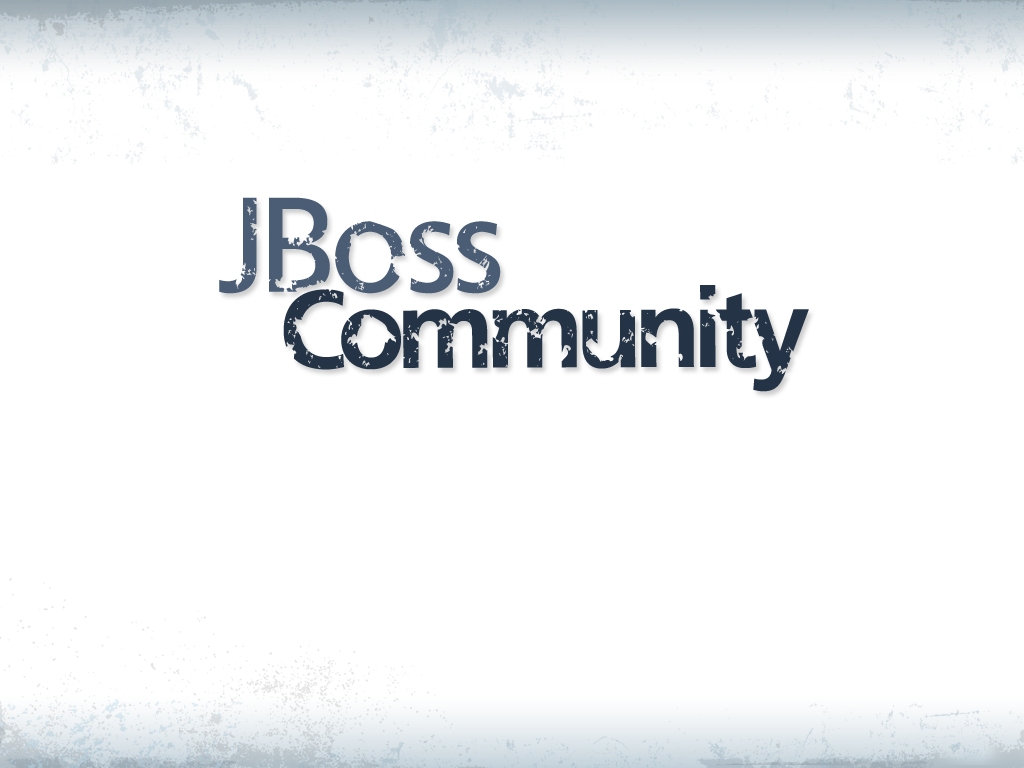
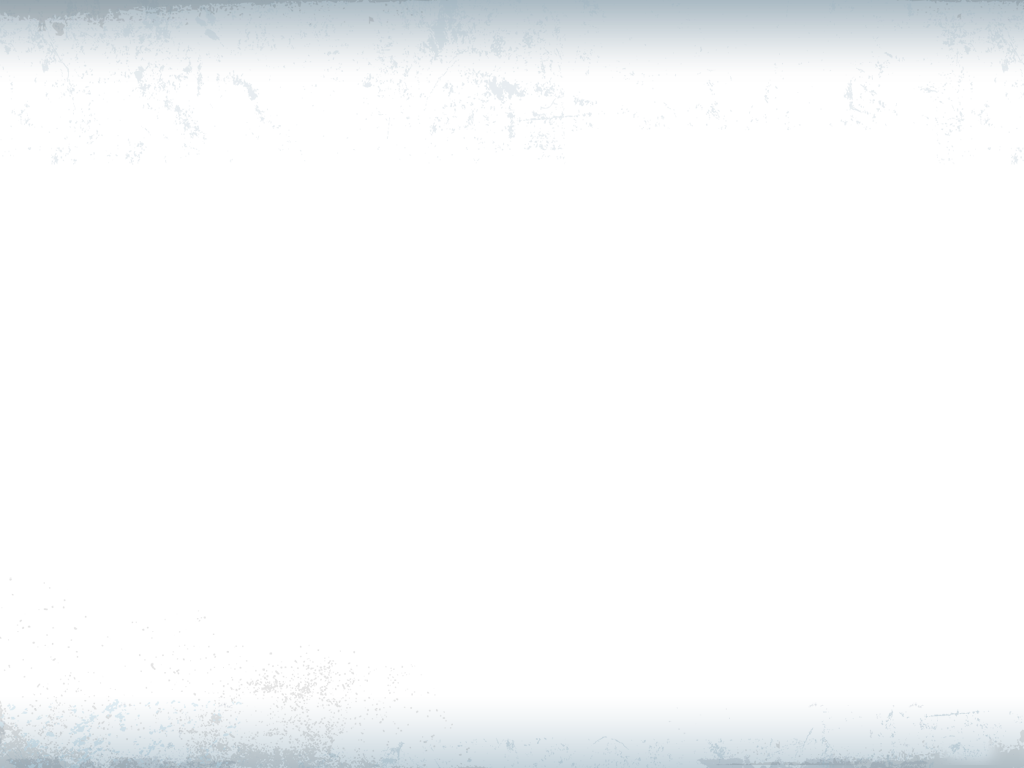
Tweaked the port of the JBoss community style

Changed region(s): [[0.2188, 0.25, 0.8125, 0.5312]]

diff --git a/2012-JAX/stylesheets/main.css b/2012-JAX/stylesheets/main.css
@@ -24,8 +24,8 @@
 html, body {
 	padding: 0;
 	margin: 0;
-	width: 1024px;
-	height: 768px;
+	width: 100%;
+	height: 100%;
 	min-height: 600px;
 }
 
@@ -34,7 +34,7 @@ body {
 	padding: 0;
 	margin: 0;
 	overflow: hidden;
-	
+
 	font-family: 'Lato', Times, 'Times New Roman', serif;
 	font-size: 36px;
 	font-weight: 200;
@@ -42,25 +42,30 @@ body {
 	color: #4a5d75;
 
 	background: #1c1e20;
-	background: url("../assets/images/jboss_bkgd.png");
-    background-repeat: no-repeat;
[1 lines of base64/hex data omitted]
+	background: -moz-radial-gradient(center, ellipse cover,  rgba(85,90,95,1) 0%, rgba(28,30,32,1) 100%);
+	background: -webkit-gradient(radial, center center, 0px, center center, 100%, color-stop(0%,rgba(85,90,95,1)), color-stop(100%,rgba(28,30,32,1)));
+	background: -webkit-radial-gradient(center, ellipse cover,  rgba(85,90,95,1) 0%,rgba(28,30,32,1) 100%);
+	background: -o-radial-gradient(center, ellipse cover,  rgba(85,90,95,1) 0%,rgba(28,30,32,1) 100%);
+	background: -ms-radial-gradient(center, ellipse cover,  rgba(85,90,95,1) 0%,rgba(28,30,32,1) 100%);
+	background: radial-gradient(center, ellipse cover,  rgba(85,90,95,1) 0%,rgba(28,30,32,1) 100%);
 }
 
 /*********************************************
  * HEADERS
  *********************************************/
-.reveal h1, 
-.reveal h2, 
-.reveal h3, 
+.reveal h1,
+.reveal h2,
+.reveal h3,
 .reveal h4 {
 	margin: 0 0 20px 0;
-	
+
 	color: #4a5d75;
-	
+
 	font-family: 'League Gothic', sans-serif;
 	line-height: 0.9em;
 	letter-spacing: 0.02em;
-	
+
 	text-transform: uppercase;
 	text-shadow: 0px 0px 6px rgba(0,0,0,0.2);
 }
@@ -222,7 +227,7 @@ body {
 	}
 
 .reveal a:not(.image) {
-	color: hsl(185, 85%, 50%);
+	color: #778289;
 	text-decoration: none;
 
 	-webkit-transition: all .2s ease;
@@ -233,8 +238,8 @@ body {
 }
 	
 	.reveal a:not(.image):hover {
-		color: hsl(185, 85%, 70%);
-		background: hsla(185, 25%, 20%, 0.4);
+		color: #e8edf1;
+		background: #778289;
 		text-shadow: none;
 		border: none;
 		border-radius: 2px;

diff --git a/2012-JAX/stylesheets/conf.css b/2012-JAX/stylesheets/conf.css
@@ -1,3 +1,39 @@
+body {
+    background: none;
+    z-index: 0;
+}
+
+html:after, body:before, body:after {
+    content: "";
+    z-index:-2;
+    position:fixed;
+    display: block;
+    background-repeat: repeat-x;
+}
+
+body:before {
+    background-image: url("/assets/images/bkgd/jboss_bkgd_top.png");
+    height: 171px;
+    left:0;
+    right: 0;
+    top:0;
+}
+
+body:after {
+    background-image: url("/assets/images/bkgd/jboss_bkgd_bottom.png");
+    content: url("/assets/images/bkgd/jboss_community_txt.png");
+    height: 197px;
+    padding-left: 10px;
+    left:0;
+    right: 0;
+    bottom: 0;
+}
+
+.reveal img.splash {
+    position: relative;
+    top: 150px;
+}
+
 .footer {
  background-color: #cc0000;
  width: 100%;
